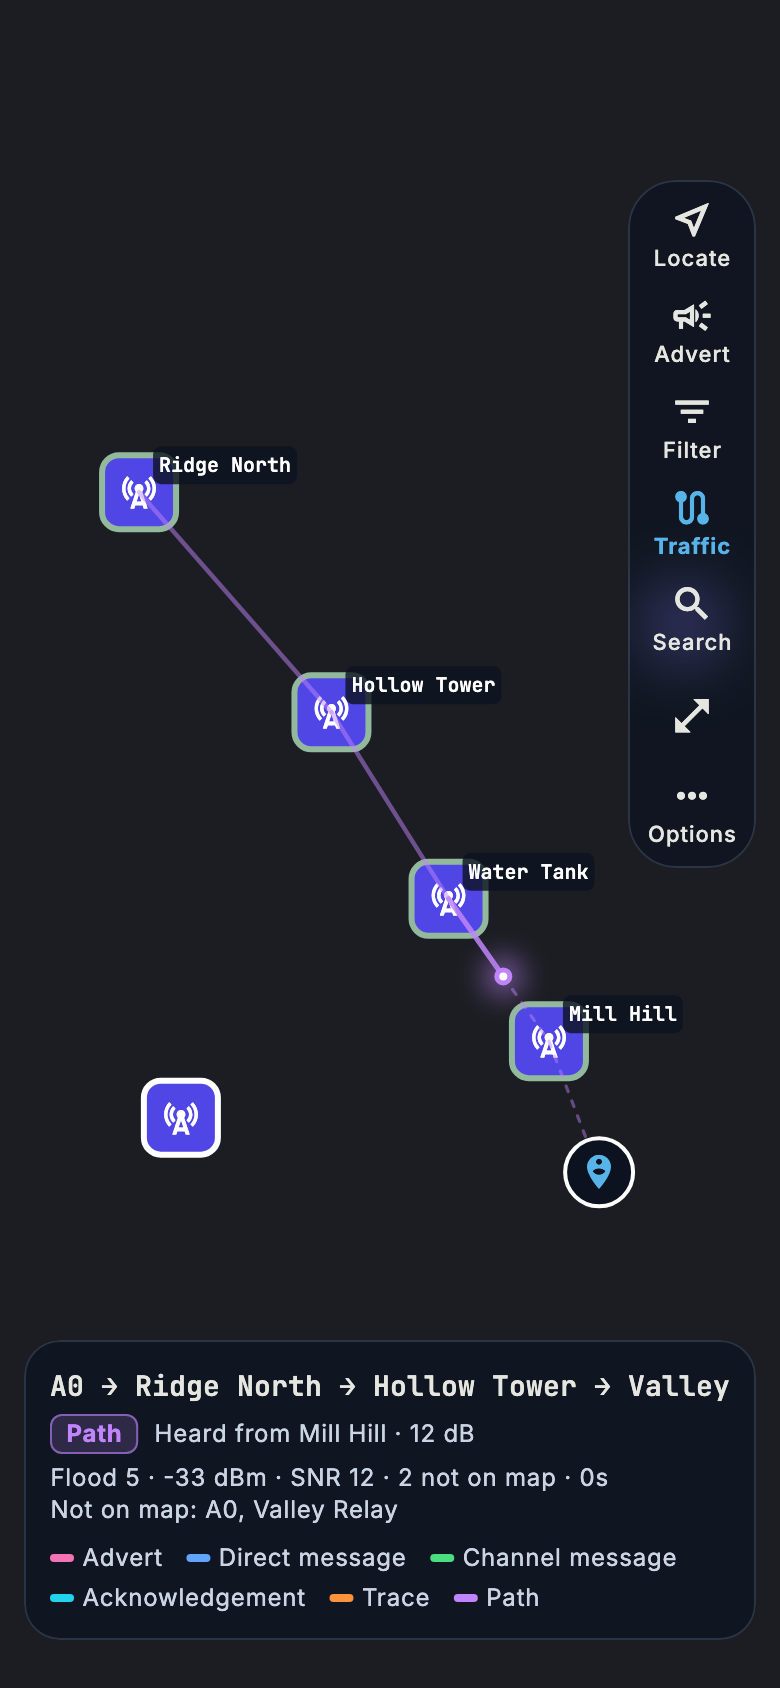
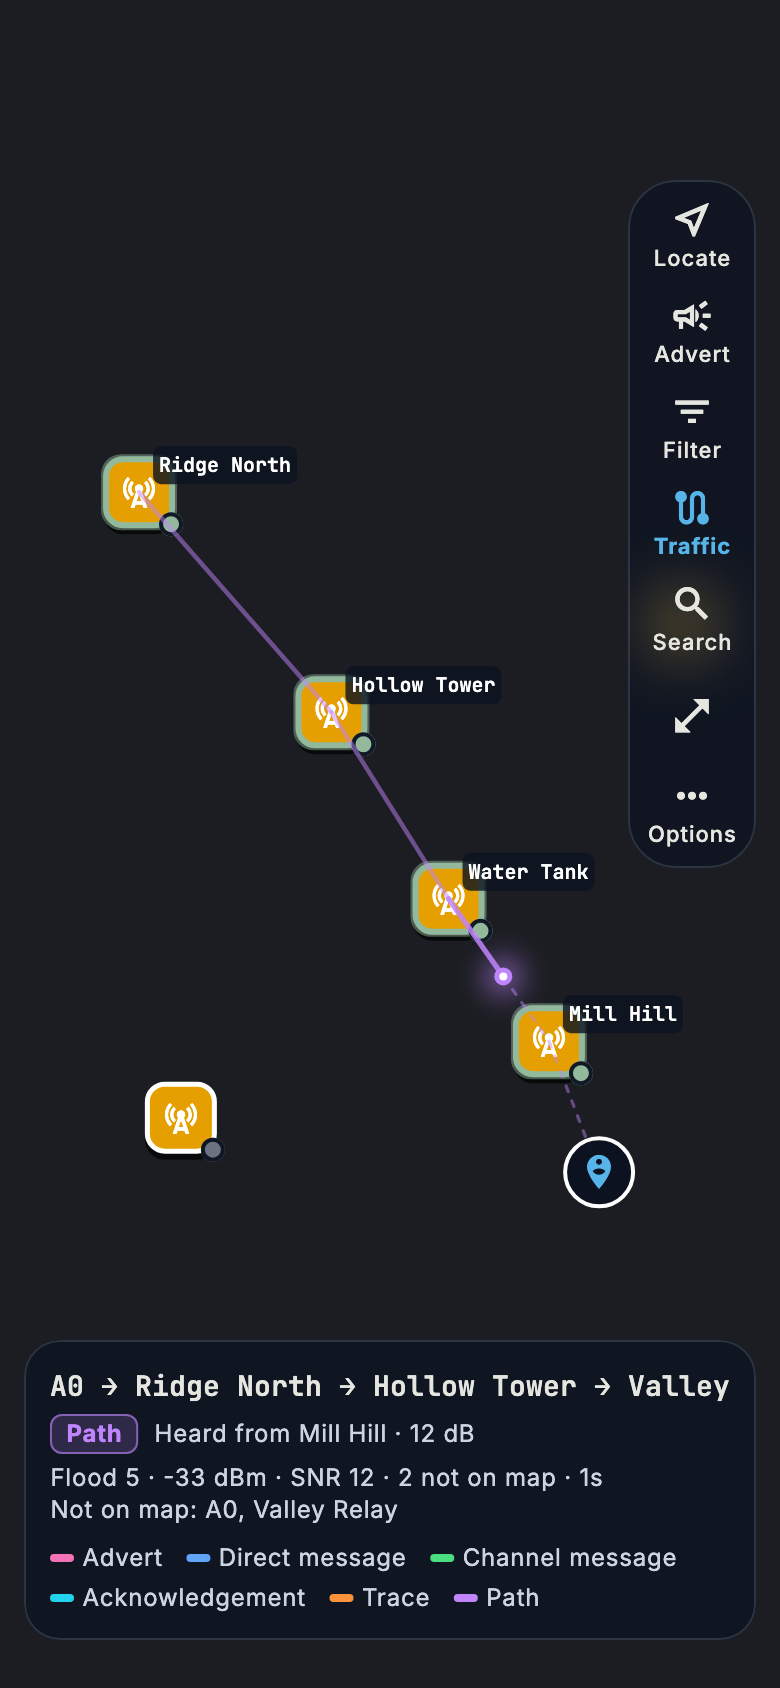
Map: tower pins for repeaters, packet details from the route card
Repeaters are rounded squares with a tower and a green ring while
recently heard. Tapping the traffic card opens that packet's details.
The preview screenshot now uses the real pin widget.

diff --git a/lib/screens/map_screen.dart b/lib/screens/map_screen.dart
@@ -51,6 +51,7 @@ import '../widgets/node_avatar.dart';
 import '../models/traffic_route.dart';
 import '../services/traffic_controller.dart';
 import '../widgets/map_toolbar.dart';
+import '../widgets/node_map_pin.dart';
 import '../widgets/traffic_map_layer.dart';
 import '../widgets/traffic_route_card.dart';
 import 'rx_log_screen.dart';
@@ -523,9 +524,16 @@ class _MapScreenState extends State<MapScreen> {
           key: const ValueKey('traffic-route-card'),
           route: traffic.latest,
           dark: _useDarkOverlay,
-          onTap: () => Navigator.of(
-            context,
-          ).push(MaterialPageRoute<void>(builder: (_) => const RxLogScreen())),
+          onTap: () {
+            final entry = traffic.latestEntry;
+            if (entry == null) {
+              Navigator.of(context).push(
+                MaterialPageRoute<void>(builder: (_) => const RxLogScreen()),
+              );
+            } else {
+              unawaited(showRxPacketSheet(context, entry));
+            }
+          },
         ),
       ),
     );
@@ -1783,9 +1791,11 @@ class _MapScreenState extends State<MapScreen> {
                       ],
                     ),
                   )
-                : _buildNodeMarkerWidget(
+                : NodeMapPin(
                     color: baseColor,
                     icon: _getNodeIcon(contact.type),
+                    repeater: contact.type == advTypeRepeater,
+                    dotBorderColor: _overlayPanelColor,
                     selected: selected,
                     stale: stale,
                     online: online,
@@ -1977,7 +1987,7 @@ class _MapScreenState extends State<MapScreen> {
       case advTypeChat:
         return Icons.person;
       case advTypeRepeater:
-        return Icons.router;
+        return Icons.cell_tower;
       case advTypeRoom:
         return Icons.meeting_room;
       case advTypeSensor:
@@ -1985,73 +1995,6 @@ class _MapScreenState extends State<MapScreen> {
       default:
         return Icons.device_unknown;
     }
-  }
-
-  Widget _buildNodeMarkerWidget({
-    required Color color,
-    required IconData icon,
-    bool selected = false,
-    bool stale = false,
-    bool online = false,
-    bool batteryLow = false,
-  }) {
-    final statusColor = batteryLow
-        ? MapPalette.batteryLow
-        : online
-        ? MapPalette.online
-        : stale
-        ? MapPalette.offline
-        : MapPalette.stale;
-    return Stack(
-      clipBehavior: Clip.none,
-      alignment: Alignment.center,
-      children: [
-        Container(
-          width: selected ? 44 : 36,
-          height: selected ? 44 : 36,
-          decoration: BoxDecoration(
-            shape: BoxShape.circle,
-            color: selected ? MapPalette.selected : color,
-            border: Border.all(
-              color: MapPalette.markerOutline,
-              width: selected ? 3 : 2.5,
-            ),
-            boxShadow: [
-              const BoxShadow(
-                color: MapPalette.markerShadow,
-                blurRadius: 8,
-                offset: Offset(0, 3),
-              ),
-              if (selected)
-                BoxShadow(
-                  color: MapPalette.selected.withValues(alpha: 0.75),
-                  blurRadius: 14,
-                  spreadRadius: 3,
-                ),
-            ],
-          ),
-          alignment: Alignment.center,
-          child: Icon(icon, color: Colors.white, size: selected ? 22 : 19),
-        ),
-        Positioned(
-          right: selected ? -1 : -2,
-          bottom: selected ? 0 : -2,
-          child: Container(
-            width: batteryLow ? 16 : (selected ? 13 : 12),
-            height: batteryLow ? 16 : (selected ? 13 : 12),
-            decoration: BoxDecoration(
-              shape: BoxShape.circle,
-              color: statusColor,
-              border: Border.all(color: _overlayPanelColor, width: 2),
-            ),
-            alignment: Alignment.center,
-            child: batteryLow
-                ? const Icon(Icons.battery_alert, size: 10, color: Colors.white)
-                : null,
-          ),
-        ),
-      ],
-    );
   }
 
   Widget _buildLegendItem(IconData icon, String label, Color color) {
@@ -2579,7 +2522,7 @@ class _MapScreenState extends State<MapScreen> {
             MapPalette.selected,
           ),
           _buildLegendItem(
-            Icons.router,
+            Icons.cell_tower,
             context.l10n.map_repeater,
             MapPalette.repeater,
           ),

diff --git a/lib/widgets/node_map_pin.dart b/lib/widgets/node_map_pin.dart
@@ -1,0 +1,113 @@
+import 'package:flutter/material.dart';
+
+import '../theme/mesh_theme.dart';
+
+/// A node's pin on the map. Repeaters are a rounded square with a tower and
+/// get a green ring while recently heard; other nodes are circles. The small
+/// dot shows freshness (or a low battery).
+class NodeMapPin extends StatelessWidget {
+  const NodeMapPin({
+    super.key,
+    required this.color,
+    required this.icon,
+    required this.dotBorderColor,
+    this.repeater = false,
+    this.selected = false,
+    this.stale = false,
+    this.online = false,
+    this.batteryLow = false,
+  });
+
+  final Color color;
+  final IconData icon;
+
+  /// Matches the map panel so the status dot reads as cut out.
+  final Color dotBorderColor;
+  final bool repeater;
+  final bool selected;
+  final bool stale;
+  final bool online;
+  final bool batteryLow;
+
+  @override
+  Widget build(BuildContext context) {
+    final statusColor = batteryLow
+        ? MapPalette.batteryLow
+        : online
+        ? MapPalette.online
+        : stale
+        ? MapPalette.offline
+        : MapPalette.stale;
+    final size = selected ? 44.0 : 36.0;
+    final ring = repeater && online && !selected;
+    final shape = repeater
+        ? BoxDecoration(
+            borderRadius: BorderRadius.circular(MeshRadii.sm),
+            color: selected ? MapPalette.selected : color,
+            border: Border.all(
+              color: ring ? MapPalette.online : MapPalette.markerOutline,
+              width: selected || ring ? 3 : 2.5,
+            ),
+            boxShadow: _shadows(ring),
+          )
+        : BoxDecoration(
+            shape: BoxShape.circle,
+            color: selected ? MapPalette.selected : color,
+            border: Border.all(
+              color: MapPalette.markerOutline,
+              width: selected ? 3 : 2.5,
+            ),
+            boxShadow: _shadows(false),
+          );
+    return Stack(
+      clipBehavior: Clip.none,
+      alignment: Alignment.center,
+      children: [
+        Container(
+          width: size,
+          height: size,
+          decoration: shape,
+          alignment: Alignment.center,
+          child: Icon(icon, color: Colors.white, size: selected ? 22 : 19),
+        ),
+        Positioned(
+          right: selected ? -1 : -2,
+          bottom: selected ? 0 : -2,
+          child: Container(
+            width: batteryLow ? 16 : (selected ? 13 : 12),
+            height: batteryLow ? 16 : (selected ? 13 : 12),
+            decoration: BoxDecoration(
+              shape: BoxShape.circle,
+              color: statusColor,
+              border: Border.all(color: dotBorderColor, width: 2),
+            ),
+            alignment: Alignment.center,
+            child: batteryLow
+                ? const Icon(Icons.battery_alert, size: 10, color: Colors.white)
+                : null,
+          ),
+        ),
+      ],
+    );
+  }
+
+  List<BoxShadow> _shadows(bool ring) => [
+    const BoxShadow(
+      color: MapPalette.markerShadow,
+      blurRadius: 8,
+      offset: Offset(0, 3),
+    ),
+    if (selected)
+      BoxShadow(
+        color: MapPalette.selected.withValues(alpha: 0.75),
+        blurRadius: 14,
+        spreadRadius: 3,
+      ),
+    if (ring)
+      BoxShadow(
+        color: MapPalette.online.withValues(alpha: 0.45),
+        blurRadius: 10,
+        spreadRadius: 1,
+      ),
+  ];
+}

diff --git a/test/widgets/traffic_map_test.dart b/test/widgets/traffic_map_test.dart
@@ -10,7 +10,9 @@ import 'package:meshcore_open/models/contact.dart';
 import 'package:meshcore_open/models/radio_rx_packet.dart';
 import 'package:meshcore_open/models/traffic_route.dart';
 import 'package:meshcore_open/services/traffic_controller.dart';
+import 'package:meshcore_open/theme/mesh_theme.dart';
 import 'package:meshcore_open/widgets/map_toolbar.dart';
+import 'package:meshcore_open/widgets/node_map_pin.dart';
 import 'package:meshcore_open/widgets/traffic_route_card.dart';
 
 final _t0 = DateTime.now();
@@ -70,6 +72,7 @@ void main() {
     expect(c.latest!.kind, TrafficKind.channel);
     expect(c.latest!.pathHops.map((h) => h.label), ['Alpha', 'Bravo', 'Delta']);
     expect(c.queue.active, hasLength(1));
+    expect(c.latestEntry!.info.hash, c.latest!.packetHash);
 
     // The same flood heard again through another repeater.
     c.add(_channelPacket([0xA1, 0xD4]));
@@ -77,6 +80,7 @@ void main() {
 
     c.shown = {TrafficKind.advert};
     expect(c.latest, isNull);
+    expect(c.latestEntry, isNull);
     c.add(_channelPacket([0xA1], salt: 9));
     expect(c.latest, isNull);
     await packets.close();
@@ -179,5 +183,41 @@ void main() {
         isEnabled: true,
       ),
     );
+  });
+
+  testWidgets('repeater pins are rounded squares, green-ringed when heard', (
+    tester,
+  ) async {
+    Widget pin({required bool repeater, required bool online}) => _app(
+      Center(
+        child: NodeMapPin(
+          key: const ValueKey('wrap'),
+          color: MapPalette.repeater,
+          icon: Icons.cell_tower,
+          dotBorderColor: MapPalette.panelDark,
+          repeater: repeater,
+          online: online,
+        ),
+      ),
+    );
+    Finder body() => find.descendant(
+      of: find.byKey(const ValueKey('wrap')),
+      matching: find.byType(Container),
+    );
+
+    await tester.pumpWidget(pin(repeater: true, online: true));
+    var d = tester.widget<Container>(body().first).decoration! as BoxDecoration;
+    expect(d.shape, BoxShape.rectangle);
+    expect(d.borderRadius, isNotNull);
+    expect((d.border! as Border).top.color, MapPalette.online);
+    expect(find.byIcon(Icons.cell_tower), findsOneWidget);
+
+    await tester.pumpWidget(pin(repeater: true, online: false));
+    d = tester.widget<Container>(body().first).decoration! as BoxDecoration;
+    expect((d.border! as Border).top.color, MapPalette.markerOutline);
+
+    await tester.pumpWidget(pin(repeater: false, online: true));
+    d = tester.widget<Container>(body().first).decoration! as BoxDecoration;
+    expect(d.shape, BoxShape.circle);
   });
 }

diff --git a/lib/services/traffic_controller.dart b/lib/services/traffic_controller.dart
@@ -30,6 +30,7 @@ class TrafficController extends ChangeNotifier {
   final TrafficQueue queue = TrafficQueue();
   Set<TrafficKind> _shown = TrafficKind.values.toSet();
   TrafficRoute? _latest;
+  RxLogEntry? _latestEntry;
 
   /// With reduce motion on, routes are drawn at once and fade.
   bool reduceMotion = false;
@@ -37,13 +38,19 @@ class TrafficController extends ChangeNotifier {
   /// The newest packet shown, for the route card.
   TrafficRoute? get latest => _latest;
 
+  /// The raw packet behind [latest], for the packet details sheet.
+  RxLogEntry? get latestEntry => _latestEntry;
+
   /// Packet types drawn on the map.
   Set<TrafficKind> get shown => Set.unmodifiable(_shown);
 
   set shown(Set<TrafficKind> kinds) {
     if (setEquals(kinds, _shown)) return;
     _shown = kinds.toSet();
-    if (_latest != null && !_shown.contains(_latest!.kind)) _latest = null;
+    if (_latest != null && !_shown.contains(_latest!.kind)) {
+      _latest = null;
+      _latestEntry = null;
+    }
     notifyListeners();
   }
 
@@ -64,6 +71,7 @@ class TrafficController extends ChangeNotifier {
       selfLabel: selfLabel(),
     );
     _latest = route;
+    _latestEntry = entry;
     queue.add(route, _clock(), reduceMotion: reduceMotion);
     notifyListeners();
   }

diff --git a/test/preview/traffic_map_preview_test.dart b/test/preview/traffic_map_preview_test.dart
@@ -18,6 +18,7 @@ import 'package:meshcore_open/models/radio_rx_packet.dart';
 import 'package:meshcore_open/services/traffic_controller.dart';
 import 'package:meshcore_open/theme/mesh_theme.dart';
 import 'package:meshcore_open/widgets/map_toolbar.dart';
+import 'package:meshcore_open/widgets/node_map_pin.dart';
 import 'package:meshcore_open/widgets/traffic_map_layer.dart';
 import 'package:meshcore_open/widgets/traffic_route_card.dart';
 
@@ -119,16 +120,13 @@ void main() {
       point: p,
       width: 40,
       height: 40,
-      child: Container(
-        decoration: BoxDecoration(
-          color: const Color(0xFF4F46E5),
-          borderRadius: BorderRadius.circular(MeshRadii.sm),
-          border: Border.all(
-            color: fresh ? MapPalette.online : MapPalette.markerOutline,
-            width: 3,
-          ),
-        ),
-        child: const Icon(Icons.cell_tower, color: Colors.white, size: 20),
+      child: NodeMapPin(
+        color: MapPalette.repeater,
+        icon: Icons.cell_tower,
+        dotBorderColor: MapPalette.panelDark,
+        repeater: true,
+        online: fresh,
+        stale: !fresh,
       ),
     );
 
